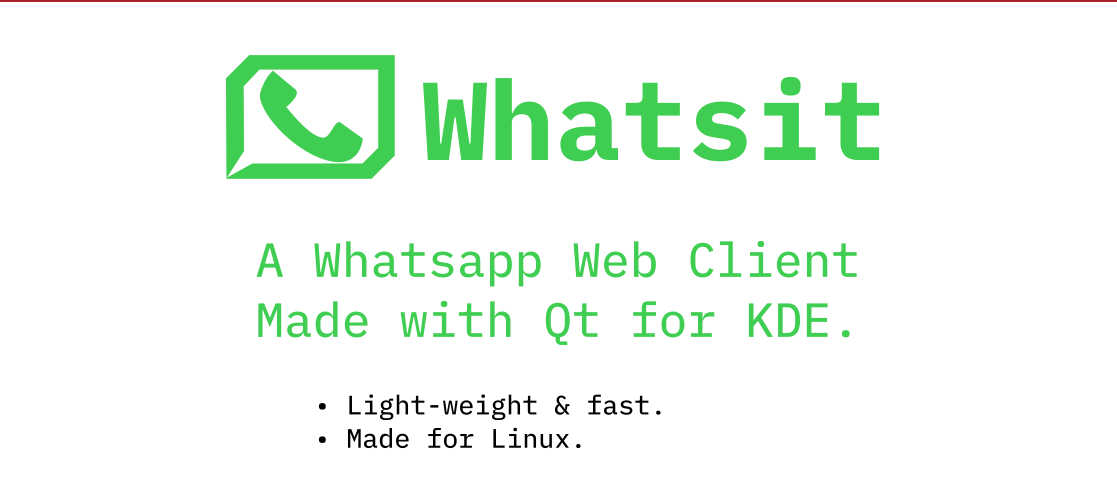
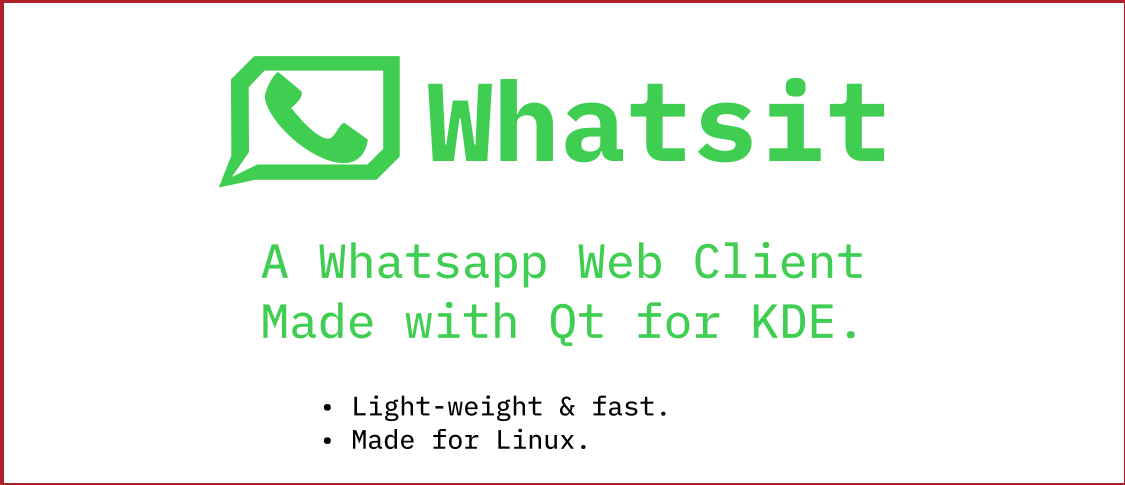
Add documentation (#21)
* Update README.md

change banner details too

* Update README.md

* Update README.md

---------

diff --git a/README.md b/README.md
@@ -1,4 +1,7 @@
-<img align="left" src="./pics/logo.png" alt="Whatsit Logo" width="140">
+<div align="center">
+  <img src="./pics/banner.png" alt="Whatsit Logo" width="400" style="border-radius:10px;">
+</div>
+
 <p align="center">
   <!-- Core Tech -->
   <img src="https://img.shields.io/badge/C%2B%2B-00599C?style=for-the-badge&logo=c%2B%2B&logoColor=white"/>
@@ -14,6 +17,7 @@
   <!-- Extras -->
 <img src="https://img.shields.io/badge/License-MIT-green?style=for-the-badge&logo=open-source-initiative&logoColor=white"/>
 
+---
 <!--Start--->
 <br>
 <h1 align="center">Mr. Whatsit</h1> <p align="center"> <sub><span style="color: gray;">From <i>Stranger Things</i> S5</span><sub></p>
@@ -25,11 +29,10 @@
 
 - I have tried many Whatsapp web clients, but none of them are fast and light. None of them felt right...
 
-- My setup is Arch-KDE Plasma-Wayland. If your setup is similar, the app should work well.
+- The app is made for a Arch-KDE Plasma-Wayland setup. But it may work on other setups too.
 
-- In `v3.x.x`, additional features such as memory kill switch and custom app and tray icons, etc. You may call these features bloat, but I like to have those. If you don't want those, use lower versions of the app.
+---
 
-- If you want the minimal and bare version, use `v1.0.1`. Tray icon and Notifications are implemented in `v2.0.0`.
 
 ### Features
 
@@ -119,13 +122,18 @@ yay -S whatsit-git
 
 All third-party trademarks and assets belong to their respective owners.
 
+---
+<br>
 <div align="center">
 
 ### Thanks for visiting.
 
-If you found this project useful, consider ⭐starring and ⤿sharing it!
+If you found this project useful... 
 
-Made with ❤, ☕ and 🍿.
+consider 🌟 starring &  🔗 sharing it!
+
+Made with ❤ & ☕ 
+
   <img src=".github/assets/waves2.svg" width="100%" />
 
 </div>
